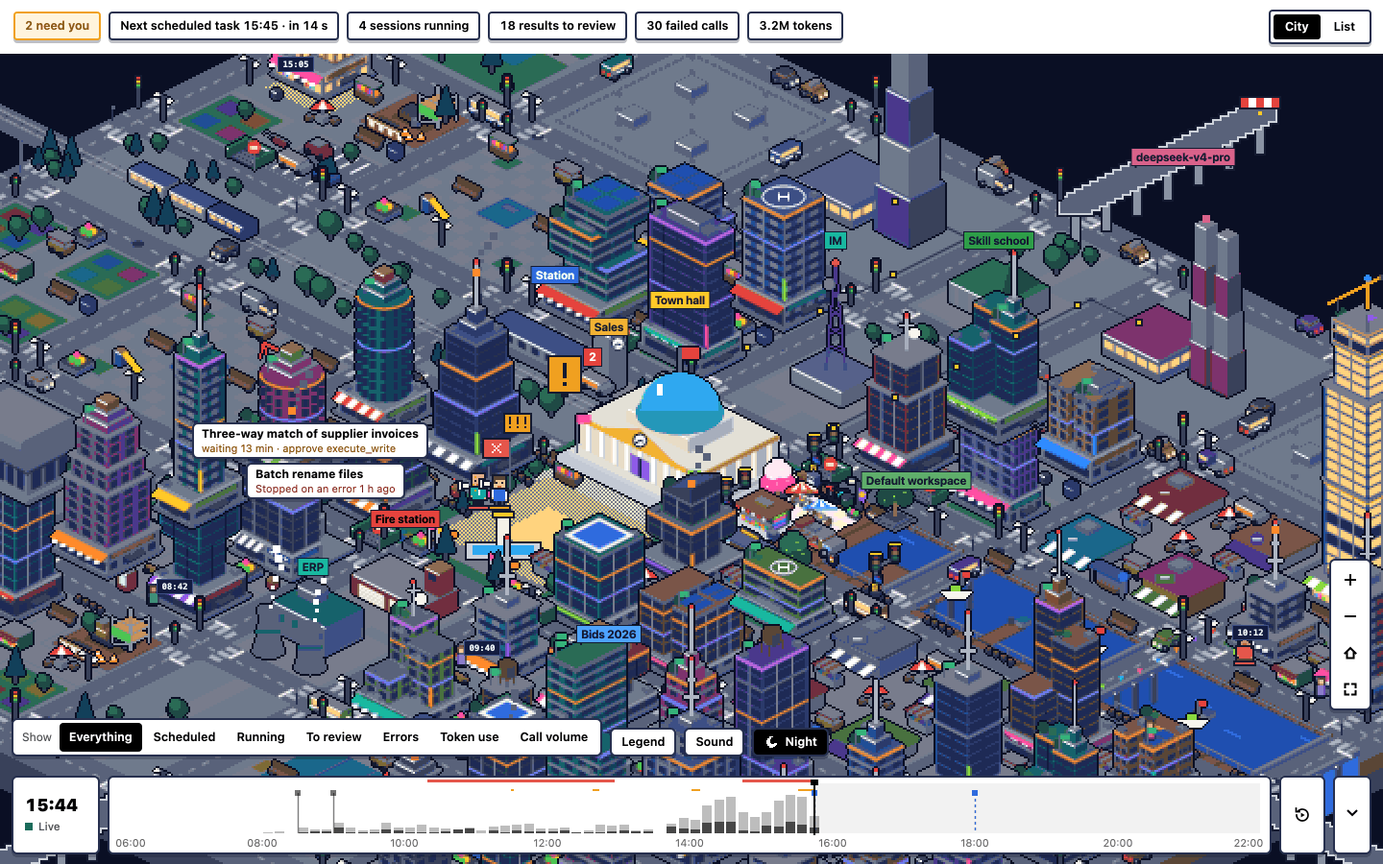
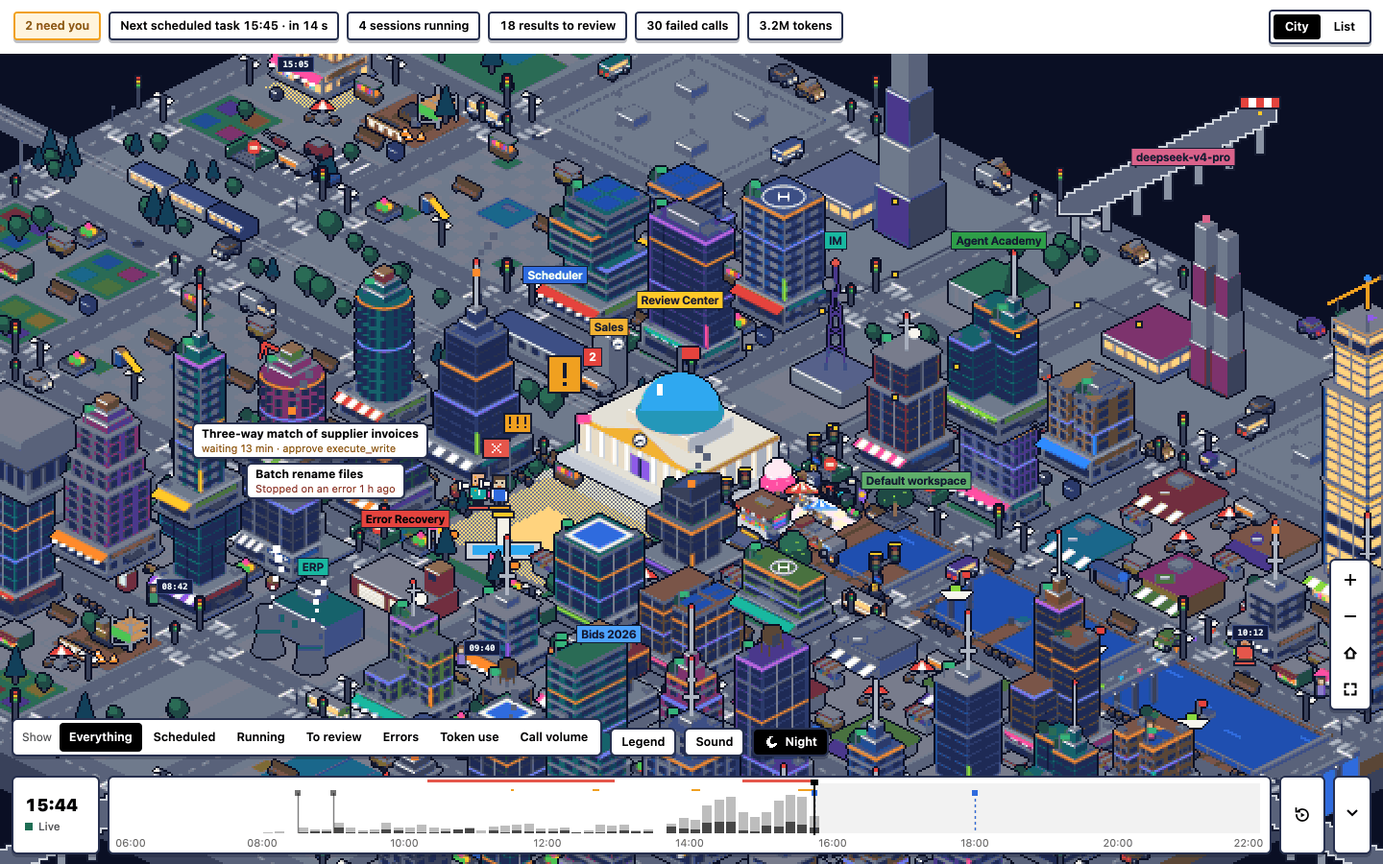
Rename the civic places to AI names (#5)
The places members see now carry AI names in both languages; internal ids
(town, station, fire, school, library, model:, conn:) are unchanged.

- Town hall / square -> Review Center / Review Square (审核中心 / 审核广场)
- Station -> Scheduler (定时任务站)
- Fire station -> Error Recovery (故障修复站)
- Power plant -> Model Hub (模型站)
- Library -> Skills & Plugins (技能与插件库)
- Skill school -> Agent Academy (智能体学院)
- Connector -> MCP Gateway (MCP 网关)
- Plugin street -> Plugin Row (插件街)
- Public buildings -> AI facilities (AI 设施); City gate floor -> Web access (联网出口)

Signs, cards, list headings, legend, tour, overlays, screen-reader text,
READMEs and the user guide follow. City goldens and the README
screenshots are regenerated (English, scripts/readme-shots.mjs).

Claude-Session: https://claude.ai/code/session_01DikYeVxEWu7E3JWwz3Wvbj

diff --git a/plugin/src/locales/en.ts b/plugin/src/locales/en.ts
@@ -4,14 +4,14 @@ import type { zh } from './zh.ts';
 export const en: Record<keyof typeof zh, string> = {
   title: 'DSH Universe',
   'list.label': 'List',
-  'h.rw': "{r} {r:agent is|agents are} working, {w} waiting for you in the square.",
+  'h.rw': "{r} {r:agent is|agents are} working, {w} waiting for you in Review Square.",
   'h.r': "{r} {r:agent is|agents are} working, none waiting for you.",
-  'h.w': "{w} {w:agent is|agents are} waiting for you in the square, the rest are stopped.",
+  'h.w': "{w} {w:agent is|agents are} waiting for you in Review Square, the rest are stopped.",
   'h.none': 'No agent is working right now.',
   'h.loading': 'Reading sessions…',
   'h.empty': 'Nothing has been built in town yet today.',
   'h.error': 'The session list cannot be read.',
-  'e.empty': 'Start a session and the first building breaks ground. The town hall, power plant, skill school, fire station, library and station are already here.',
+  'e.empty': 'Start a session and the first building breaks ground. The Review Center, Model Hub, Agent Academy, Error Recovery, Skills & Plugins and Scheduler are already here.',
   'e.error': "DSH did not answer. This shows what was last read; numbers are hidden for now.",
   'e.retry': 'Read again',
   'e.partial': 'Earlier records of today could not all be read; counting starts when the plugin started.',
@@ -25,15 +25,15 @@ export const en: Record<keyof typeof zh, string> = {
   'td.err': "{n} failed {n:call|calls}",
   'td.tok': '{n} tokens',
   'a.in': 'in {d}',
-  'li.need': 'Waiting for you in the square',
+  'li.need': 'Waiting for you in Review Square',
   'li.review': 'Finished and not seen yet, or with an unsent draft',
   'li.running': "Running",
   'li.auto': 'Scheduled tasks',
   'li.failed': "Stopped on an error",
   'li.idle': "Idle",
   'li.done': 'Finished today',
-  'li.places': 'Public buildings',
-  'li.plugins': "Plugin street",
+  'li.places': 'AI facilities',
+  'li.plugins': "Plugin Row",
   'li.days': 'Earlier days (last 14)',
   'li.dayUnknown': 'No record (the plugin was not running that day)',
   'li.dayRow': "{n} {n:session|sessions}, {f} failed",
@@ -73,7 +73,7 @@ export const en: Record<keyof typeof zh, string> = {
   'fl.done': 'Finished',
   'fl.failed': 'Error',
   'fl.platform': 'Platform',
-  'fl.gate': 'City gate',
+  'fl.gate': 'Web access',
   'fl.approval': 'Approvals desk',
   'fl.question': 'Enquiries',
   'fl.plan': 'Plan to approve',
@@ -85,13 +85,13 @@ export const en: Record<keyof typeof zh, string> = {
   'fl.control': 'Control room',
   'fl.bay': 'Engine bay',
   'fl.retry': 'Repair log',
-  'pl.town': 'Town hall',
-  'pl.station': 'Station',
-  'pl.school': 'Skill school',
-  'pl.library': 'Library',
-  'pl.fire': 'Fire station',
-  'pl.power': 'Power plant {n}',
-  'pl.conn': 'Connector {n}',
+  'pl.town': 'Review Center',
+  'pl.station': 'Scheduler',
+  'pl.school': 'Agent Academy',
+  'pl.library': 'Skills & Plugins',
+  'pl.fire': 'Error Recovery',
+  'pl.power': 'Model Hub {n}',
+  'pl.conn': 'MCP Gateway {n}',
   'pl.home': 'Own building',
   'pl.in': '{n} inside',
   'na': 'Not provided',
@@ -105,7 +105,7 @@ export const en: Record<keyof typeof zh, string> = {
   'view.label': "View",
   'view.city': "City",
   'view.list': "List",
-  'city.aria': "City view: a building is a session, a person is an agent. The list view has the same content. Arrow keys pan, + and − zoom, 0 goes back to the square, Enter opens the place in the middle, Esc goes back.",
+  'city.aria': "City view: a building is a session, a person is an agent. The list view has the same content. Arrow keys pan, + and − zoom, 0 goes back to Review Square, Enter opens the place in the middle, Esc goes back.",
   'ly.label': "Show",
   'ly.all': "Everything",
   'ly.scheduled': "Scheduled",
@@ -118,12 +118,12 @@ export const en: Record<keyof typeof zh, string> = {
   'lg.1': "Building = one session, taller with more work",
   'lg.2': "Person = agent; the colour under the feet is the state",
   'lg.3': "A section of a building = one kind of call, with a band in its colour on top",
-  'lg.4': "Holding up a sign in the square = waiting for you",
+  'lg.4': "Holding up a sign in Review Square = waiting for you",
   'lg.5': "Cars = calls in the last 5 minutes (1 car ≈ {n} calls)",
   'lg.6': "At night only places that are working or waiting are lit",
   'zm.in': "Zoom in",
   'zm.out': "Zoom out",
-  'zm.home': "Back to the square",
+  'zm.home': "Back to Review Square",
   'zm.whole': "Whole city",
   'tl.peek': "{n} {n:call|calls} · {f} failed",
   'lg.tl': "Timeline",
@@ -141,11 +141,11 @@ export const en: Record<keyof typeof zh, string> = {
   'nav.next': "Next one waiting for you (n)",
   'card.close': "Close",
   'act.enter': "Go inside",
-  'ov.scheduled': "Sessions that scheduled tasks started today, and the next scheduled task. The station and those buildings stay in colour, roofs edged in blue. The clock over the station points at the next scheduled task; the clock on a building is when it started. The tag is the start time: ✓ done, × failed, … still running.",
+  'ov.scheduled': "Sessions that scheduled tasks started today, and the next scheduled task. The Scheduler and those buildings stay in colour, roofs edged in blue. The clock over the Scheduler points at the next scheduled task; the clock on a building is when it started. The tag is the start time: ✓ done, × failed, … still running.",
   'ov.running': "Sessions working right now. Their buildings stay in colour, roofs edged in blue, with a dotted blue line to their agents that are out. The tag is the current tool and how long this turn has run.",
   'ov.review': "Sessions that finished and you have not looked at, and sessions with an unsent draft. Their buildings stay in colour with an edged roof. On the roof, a parcel means files were delivered, an envelope a draft, a green check finished and not seen. Opening the session or choosing Mark as seen clears it.",
-  'ov.errors': "Where calls failed today. A fire on the roof, bigger for more failures (1–2, 3–5, 6 or more); failures in the last 30 minutes burn, older ones only smoulder. Fire engines drive from the fire station along the roads and spray water. The fire station shows how many model requests were retried today.",
-  'ov.tokens': "How many tokens each building used. A wire runs from the power plant of the model it used most: solid orange means in use in the last 5 minutes, with more and faster lights for more; a building not using any is off the grid. The meter beside a building is today's use, and the top three have a bolt overhead. The bar over a plant is its load; it turns red past 80% of today's peak.",
+  'ov.errors': "Where calls failed today. A fire on the roof, bigger for more failures (1–2, 3–5, 6 or more); failures in the last 30 minutes burn, older ones only smoulder. Fire engines drive from Error Recovery along the roads and spray water. Error Recovery shows how many model requests were retried today.",
+  'ov.tokens': "How many tokens each building used. A wire runs from the Model Hub of the model it used most: solid orange means in use in the last 5 minutes, with more and faster lights for more; a building not using any is off the grid. The meter beside a building is today's use, and the top three have a bolt overhead. The bar over a Model Hub is its load; it turns red past 80% of today's peak.",
   'ov.calls': "How many calls each place had in the last 5 minutes. Roads turn yellow, orange and red (1 or more, 12 or more, 40 or more), one level less every 3 tiles outwards. Cars = calls in the last 5 minutes, 1 car ≈ {n} calls.",
   'ov.retries': "{n} {n:retry|retries} today",
   'ov.calls5': "{n} in 5 min",
@@ -157,7 +157,7 @@ export const en: Record<keyof typeof zh, string> = {
   'tl.replaying': "Replay",
   'tl.back': "Looking back",
   'snd.label': "Sound",
-  'snd.hint': "While someone waits in the square: two low notes every 2.4 seconds, higher the more are waiting. Off by default; silent with reduced motion.",
+  'snd.hint': "While someone waits in Review Square: two low notes every 2.4 seconds, higher the more are waiting. Off by default; silent with reduced motion.",
   'dn.auto': "Auto",
   'dn.day': "Day",
   'dn.night': "Night",
@@ -291,7 +291,7 @@ export const en: Record<keyof typeof zh, string> = {
   'td.schedNa': "Scheduled tasks: not provided",
   'e.backfill': "Reading today's earlier sessions; the city fills in as they arrive.",
   'e.memory': "The plugin's storage isn't available: today's city is kept only until you close it, and buildings are placed again when you reopen it.",
-  'e.noSched': "This host doesn't provide scheduled tasks, so no trains come to the station.",
+  'e.noSched': "This host doesn't provide scheduled tasks, so no trains come to the Scheduler.",
   'e.dismiss': "Got it",
   'e.notes': "Notes",
   'zm.label': "Zoom",
@@ -318,8 +318,8 @@ export const en: Record<keyof typeof zh, string> = {
   'tour.today.x': "These buttons are ordered by urgency: waiting for you, scheduled, running, to review, errors, tokens. A press switches to that layer and goes to the next item.",
   'tour.layers.t': "Show one kind",
   'tour.layers.x': "Pick a layer and the city turns grey, with only that kind in colour. Open the Legend to see how each layer reads.",
-  'tour.square.t': "The square",
-  'tour.square.x': "Agents that need you walk to the square in front of the town hall and hold up a sign, more visible the longer they wait. Click one to follow it, then confirm in the session.",
+  'tour.square.t': "Review Square",
+  'tour.square.x': "Agents that need you walk to Review Square in front of the Review Center and hold up a sign, more visible the longer they wait. Click one to follow it, then confirm in the session.",
   'tour.building.t': "A building is a session",
   'tour.building.x': "Point at a building to see its card; \"Open session\" on the card takes you to the session. Click the building to go inside and see what each floor is doing.",
 };

diff --git a/plugin/src/locales/zh.ts b/plugin/src/locales/zh.ts
@@ -2,14 +2,14 @@
 export const zh = {
   title: 'DSH Universe',
   'list.label': '清单',
-  'h.rw': '现在 {r} 个代理在干活，{w} 个在广场上等你。',
+  'h.rw': '现在 {r} 个代理在干活，{w} 个在审核广场上等你。',
   'h.r': '现在 {r} 个代理在干活，没有等你的。',
-  'h.w': '{w} 个代理在广场上等你，其余都停着。',
+  'h.w': '{w} 个代理在审核广场上等你，其余都停着。',
   'h.none': '此刻没有代理在干活。',
   'h.loading': '正在读取会话…',
   'h.empty': '今天城里还没有动工。',
   'h.error': '读不到会话列表。',
-  'e.empty': '发起一个会话，第一栋楼就会开工。市政厅、电站、技能学校、消防站、图书馆和车站已经在了。',
+  'e.empty': '发起一个会话，第一栋楼就会开工。审核中心、模型站、智能体学院、故障修复站、技能与插件库和定时任务站已经在了。',
   'e.error': "没有收到 DSH 的回应。这里显示的是上一次读到的内容，数字先不显示。",
   'e.retry': '再读一次',
   'e.partial': '今天早些时候的记录没有读全，只从插件开始运行时算起。',
@@ -23,14 +23,14 @@ export const zh = {
   'td.err': '{n} 次出错',
   'td.tok': '{n} token',
   'a.in': '{d}后',
-  'li.need': '在广场上等你',
+  'li.need': '在审核广场上等你',
   'li.review': '做完了还没看过，或有没发出的草稿',
   'li.running': "运行中",
   'li.auto': '定时任务',
   'li.failed': "出错停下",
   'li.idle': "空闲",
   'li.done': "今天完成",
-  'li.places': '公共设施',
+  'li.places': 'AI 设施',
   'li.plugins': '插件街',
   'li.days': '往日（近 14 天）',
   'li.dayUnknown': '没有记录（插件那天没有运行）',
@@ -71,7 +71,7 @@ export const zh = {
   'fl.done': '已完工',
   'fl.failed': '出错',
   'fl.platform': '站台',
-  'fl.gate': '出城口',
+  'fl.gate': '联网出口',
   'fl.approval': '审批窗口',
   'fl.question': '问询处',
   'fl.plan': '待批准的计划',
@@ -83,13 +83,13 @@ export const zh = {
   'fl.control': '控制室',
   'fl.bay': '车库',
   'fl.retry': '抢修记录',
-  'pl.town': '市政厅',
-  'pl.station': '车站',
-  'pl.school': '技能学校',
-  'pl.library': '图书馆',
-  'pl.fire': '消防站',
-  'pl.power': '电站 {n}',
-  'pl.conn': '连接器 {n}',
+  'pl.town': '审核中心',
+  'pl.station': '定时任务站',
+  'pl.school': '智能体学院',
+  'pl.library': '技能与插件库',
+  'pl.fire': '故障修复站',
+  'pl.power': '模型站 {n}',
+  'pl.conn': 'MCP 网关 {n}',
   'pl.home': '自己的楼',
   'pl.in': '{n} 人在内',
   'na': '未提供',
@@ -103,7 +103,7 @@ export const zh = {
   'view.label': "视图",
   'view.city': "城市",
   'view.list': "清单",
-  'city.aria': "城市视图：一栋楼是一个会话，人是代理。清单视图里有同样的内容。方向键平移，加号减号缩放，0 回到广场，回车打开画面中间的地点，Esc 返回。",
+  'city.aria': "城市视图：一栋楼是一个会话，人是代理。清单视图里有同样的内容。方向键平移，加号减号缩放，0 回到审核广场，回车打开画面中间的地点，Esc 返回。",
   'ly.label': "只看",
   'ly.all': "全部",
   'ly.scheduled': "定时任务",
@@ -116,12 +116,12 @@ export const zh = {
   'lg.1': "一栋楼 = 一个会话，越干越高",
   'lg.2': "小人 = 代理，脚下的颜色是状态",
   'lg.3': "楼的一段 = 一类调用，段顶有一条这一类颜色的色带",
-  'lg.4': "广场上举牌的 = 在等你",
+  'lg.4': "审核广场上举牌的 = 在等你",
   'lg.5': "车 = 最近 5 分钟的调用量（1 辆约等于 {n} 次）",
   'lg.6': "夜里只有在干活或等你的地方亮灯",
   'zm.in': "放大",
   'zm.out': "缩小",
-  'zm.home': "回到广场",
+  'zm.home': "回到审核广场",
   'zm.whole': "看全城",
   'tl.peek': "{n} 次调用 · {f} 次失败",
   'lg.tl': "时间轴",
@@ -139,11 +139,11 @@ export const zh = {
   'nav.next': "下一个等你的（n）",
   'card.close': "关闭",
   'act.enter': "进楼看看",
-  'ov.scheduled': "今天由定时任务启动的会话，和下一个定时任务。车站和这些楼保持彩色，屋顶描蓝边；车站上的钟指向下一个定时任务，楼上的钟是它启动的时间；标签写启动时间：✓ 完成、× 出错、… 还在运行。",
+  'ov.scheduled': "今天由定时任务启动的会话，和下一个定时任务。定时任务站和这些楼保持彩色，屋顶描蓝边；定时任务站上的钟指向下一个定时任务，楼上的钟是它启动的时间；标签写启动时间：✓ 完成、× 出错、… 还在运行。",
   'ov.running': "此刻在干活的会话。这些楼保持彩色，屋顶描蓝边；蓝色虚线连到它出门在外的代理；标签是当前工具和这一轮已用的时间。",
   'ov.review': "做完了而你还没看过的会话，和输入框里有没发出草稿的会话。这些楼保持彩色，屋顶描边；楼顶的箱子 = 交付了文件，信封 = 有草稿，绿色的勾 = 做完还没看。打开会话或点「标为已看」后就不再算。",
-  'ov.errors': "今天哪里有调用出错。楼顶着火，出错越多火越大（1–2、3–5、6 次以上）；30 分钟内出过错的还在烧，更早的只冒烟；消防车从消防站沿路开过去灭火。消防站上写着今天模型请求重试了几次。",
-  'ov.tokens': "每栋楼用了多少 token。电线从它用得最多的模型的电站拉过来：橙色实线表示最近 5 分钟在用，用得越多，光点越多越快；没在用的楼不通电。楼边的电表是今天的用量，前三名头上有闪电；电站上方的条是负荷，超过今天高峰的八成变红。",
+  'ov.errors': "今天哪里有调用出错。楼顶着火，出错越多火越大（1–2、3–5、6 次以上）；30 分钟内出过错的还在烧，更早的只冒烟；消防车从故障修复站沿路开过去灭火。故障修复站上写着今天模型请求重试了几次。",
+  'ov.tokens': "每栋楼用了多少 token。电线从它用得最多的模型对应的模型站拉过来：橙色实线表示最近 5 分钟在用，用得越多，光点越多越快；没在用的楼不通电。楼边的电表是今天的用量，前三名头上有闪电；模型站上方的条是负荷，超过今天高峰的八成变红。",
   'ov.calls': "最近 5 分钟每个地点有多少次调用。路面黄、橙、红三档（1 次以上、12 次以上、40 次以上），往外每 3 格降一档。车 = 最近 5 分钟的调用量，1 辆约等于 {n} 次。",
   'ov.retries': "今天重试 {n} 次",
   'ov.calls5': "5 分钟 {n} 次",
@@ -155,7 +155,7 @@ export const zh = {
   'tl.replaying': "回放中",
   'tl.back': "回看",
   'snd.label': "环境音",
-  'snd.hint': "有人在广场上等你时，每 2.4 秒响两声低音，等的人越多音越高。默认关闭；系统开启「减少动态效果」时不响。",
+  'snd.hint': "有人在审核广场上等你时，每 2.4 秒响两声低音，等的人越多音越高。默认关闭；系统开启「减少动态效果」时不响。",
   'dn.auto': "自动",
   'dn.day': "白天",
   'dn.night': "夜晚",
@@ -289,7 +289,7 @@ export const zh = {
   'td.schedNa': "定时任务：未提供",
   'e.backfill': "正在补读今天早些时候的会话，城市会一栋一栋长出来。",
   'e.memory': "插件的存储暂时用不了：今天的城市只保留到这次关闭，重新打开后楼的位置会重新安排。",
-  'e.noSched': "这个宿主没有提供定时任务，车站里不会有列车。",
+  'e.noSched': "这个宿主没有提供定时任务，定时任务站里不会有列车。",
   'e.dismiss': "知道了",
   'e.notes': "提示",
   'zm.label': "缩放",
@@ -316,8 +316,8 @@ export const zh = {
   'tour.today.x': "这一排按钮按急缓排列：等你、定时任务、运行中、待查看、出错、token。点一下会切到对应的图层，并跳到下一项。",
   'tour.layers.t': "只看一类",
   'tour.layers.x': "选一个图层，城市变灰，只有这一类保持彩色。点「图例」看每个图层怎么读。",
-  'tour.square.t': "广场",
-  'tour.square.x': "需要你的代理会走到市政厅前的广场上举牌，等得越久越显眼。点一下就能跟上它，再去会话里确认。",
+  'tour.square.t': "审核广场",
+  'tour.square.x': "需要你的代理会走到审核中心前的审核广场上举牌，等得越久越显眼。点一下就能跟上它，再去会话里确认。",
   'tour.building.t': "一栋楼是一个会话",
   'tour.building.x': "指针移到楼上，会出现这栋楼的卡片，卡片上的「打开会话」直接去那个会话。点一下楼就进去，看各层在做什么。",
 };

diff --git a/plugin/tests/client.test.ts b/plugin/tests/client.test.ts
@@ -171,7 +171,7 @@ test('English counts take the singular at 1 (`{n:one|other}`); Chinese never nee
   const { en, zh } = await import('../src/locales/index.ts');
   assert.equal(fill(en['td.err'], { n: 1 }), '1 failed call');
   assert.equal(fill(en['td.err'], { n: 30 }), '30 failed calls');
-  assert.equal(fill(en['h.rw'], { r: 1, w: 2 }), '1 agent is working, 2 waiting for you in the square.');
+  assert.equal(fill(en['h.rw'], { r: 1, w: 2 }), '1 agent is working, 2 waiting for you in Review Square.');
   for (const v of Object.values(zh)) assert.ok(!/\{\w+:/.test(v), v);
 });
 

diff --git a/docs/USER-GUIDE.en.md b/docs/USER-GUIDE.en.md
@@ -11,22 +11,23 @@ person, and every tool call shows up as traffic, light and work. Open it from **
 | --- | --- |
 | A building | One session. It grows a section for each kind of work it does (reading, editing, running commands, connectors…), with a band in that kind's colour on top. |
 | A person | An agent. The colour under their feet is the state: Running, Needs you, Idle, Done or Failed. Subagents work inside their parent's building. |
-| A sign held up in the square | That agent is waiting for you (an approval, a question, or a plan to read). |
+| A sign held up in Review Square | That agent is waiting for you (an approval, a question, or a plan to read). |
 | Cars on the avenues | Calls made in the last five minutes. |
 | Lit windows at night | Only places that are working or waiting stay lit. An idle city stands still. |
 
-The civic buildings stand round the square: the **town hall** (approvals and plans), the **station** (scheduled
-tasks), the **fire station** (errors), the **skill school** (skills), the **library** (the plugins you installed) and
-one **power plant** per model. Each connector (MCP server) has its own building, and installed plugins line the plugin street. Workspaces are
+The AI facilities stand round Review Square: the **Review Center** (approvals, questions and plans), the **Scheduler**
+(scheduled tasks), **Error Recovery** (errors and retries), the **Agent Academy** (skill loads and experts), **Skills &
+Plugins** (what you installed) and one **Model Hub** per model. Each MCP server has its own **MCP Gateway**, and
+installed plugins line **Plugin Row**. Workspaces are
 districts, each with a sign showing the workspace's name.
 
 Point at a building to see its card: what the session is doing, its calls, token use and time. **Open session**
 on the card takes you to the session in DSH; clicking the building takes you inside. Open **Legend** for a one-page key. The first time you open
 DSH Universe a four-step tour points these out; **Show the tour again** in the legend repeats it.
 
-## The square and the data views
+## Review Square and the data views
 
-The square in front of the town hall is where agents wait for you. The first button of the Today row along the top shows how many
+Review Square in front of the Review Center is where agents wait for you. The first button of the Today row along the top shows how many
 things need you, and the `n` key jumps to the next one. The row is ordered by urgency: waiting for you, scheduled,
 running, to review, errors, tokens; a press switches to that layer and goes to the next item.
 
@@ -63,8 +64,8 @@ city** or `Esc` to leave.
 
 ![Inside a building](img/guide-inside.png)
 
-The civic buildings can be entered too: the library shows your plugins, the skill school your skills, the station
-the day's scheduled tasks.
+The AI facilities can be entered too: Skills & Plugins shows what you installed, the Agent Academy your skills and
+experts, the Scheduler the day's scheduled tasks.
 
 ## What it reads, and what it never reads
 
@@ -88,5 +89,5 @@ each have their own city, and the same session may stand on a different plot in 
 ## Accessibility
 
 Everything in the city is also in the list view. In the city, the arrow keys pan, `+` and `−` zoom, `0` returns to
-the square, `Enter` opens the place in the middle and `Esc` goes back. With reduced motion turned on in your system,
+Review Square, `Enter` opens the place in the middle and `Esc` goes back. With reduced motion turned on in your system,
 the city updates at most twice a second and nothing flashes.

diff --git a/README.md b/README.md
@@ -21,25 +21,25 @@ All screenshots use a made-up sample day (`fixtures/dsh-sample.ts`). No real ses
 - A **list view** with the same content as text.
 
 **Needs you**
-- Agents waiting for an approval, an answer or a plan to read gather in the town square holding a sign.
+- Agents waiting for an approval, an answer or a plan to read gather in Review Square holding a sign.
 - They stand out more the longer they wait.
 - One click follows the agent; **Open session** takes you to it in DSH.
 
 **Errors**
 - Fire layer: a fire on each building with failed calls, bigger for more failures; recent ones burn, older ones
   smoulder, and fire engines drive out to them.
-- The fire station counts today's retried model requests and keeps a repair log.
+- Error Recovery counts today's retried model requests and keeps a repair log.
 
 **Token and model use**
-- Power-grid layer: one power plant per model with its load, and a wire to each building from the model it used most.
+- Power-grid layer: one Model Hub per model with its load, and a wire to each building from the model it used most.
 - A meter beside each building shows its token use today; the top three get a bolt overhead.
 
 **Call volume**
 - Traffic layer: roads turn yellow, orange and red with the calls of the last 5 minutes, and cars stand for calls.
 
 **Schedules**
-- Scheduled runs arrive as trains at the station.
-- A clock over the station points at the next scheduled task; each building's clock shows when it started.
+- Scheduled runs arrive as trains at the Scheduler.
+- A clock over the Scheduler points at the next scheduled task; each building's clock shows when it started.
 
 **To review**
 - Sessions that finished and you have not looked at, sessions with an unsent draft, and delivered files are marked on
@@ -79,8 +79,8 @@ All screenshots use a made-up sample day (`fixtures/dsh-sample.ts`). No real ses
 | --- | --- |
 | ![The city at night: only places with work in progress are lit](docs/screenshots/city-night.png) | ![The Errors view: failed calls in colour, everything else greyed out](docs/screenshots/layer-errors.png) |
 | **Night.** Only the places with a session in progress are lit. | **Errors.** One kind of data at a time; the rest of the city is greyed out. Token use and call volume work the same way. |
-| ![Agents waiting for you in the square](docs/screenshots/square.png) | ![The timeline replaying the day](docs/screenshots/replay.png) |
-| **The square.** Agents that need you (an approval, a question, a plan to read) wait in the city square with a sign. | **Timeline.** Drag back to any moment of the day, or replay it. |
+| ![Agents waiting for you in Review Square](docs/screenshots/square.png) | ![The timeline replaying the day](docs/screenshots/replay.png) |
+| **Review Square.** Agents that need you (an approval, a question, a plan to read) wait in Review Square with a sign. | **Timeline.** Drag back to any moment of the day, or replay it. |
 | ![Inside a building: the market desk floor](docs/screenshots/room-market.png) | ![Inside a building: the help desk floor](docs/screenshots/room-helpdesk.png) |
 | **Inside a building.** One floor for each kind of work, with the agents standing where they work. | Each kind of floor has its own room, and rooms are laid out like the real thing. |
 | ![The list view](docs/screenshots/list.png) | |

diff --git a/release/npm/README.md b/release/npm/README.md
@@ -11,13 +11,13 @@ is scheduled next. Metadata only, read on your own device.
 
 - **Real-time overview.** Every session and agent across all workspaces, live. The Today bar counts what needs you,
   the next scheduled task, what is running, results to review, failed calls and token use; press one to jump to it.
-- **Needs you.** Agents waiting for an approval, an answer or a plan to read gather in the town square, standing out
+- **Needs you.** Agents waiting for an approval, an answer or a plan to read gather in Review Square, standing out
   more the longer they wait. One click opens the session in DSH.
-- **Errors.** Fires on buildings with failed calls, fire engines on the way, and a fire station that counts retries
+- **Errors.** Fires on buildings with failed calls, fire engines on the way, and Error Recovery, which counts retries
   and keeps a repair log.
-- **Token and model use.** A power grid: one plant per model with its load, and each building's token use today.
+- **Token and model use.** A power grid: one Model Hub per model with its load, and each building's token use today.
 - **Call volume.** Roads and cars show the calls of the last 5 minutes.
-- **Schedules.** Scheduled runs arrive as trains at the station; a clock points at the next one.
+- **Schedules.** Scheduled runs arrive as trains at the Scheduler; a clock points at the next one.
 - **To review.** Finished sessions you have not seen, unsent drafts and delivered files are marked until you open them.
 - **Inside each session.** Each building grows with its work. Go inside to rooms themed by the session title, with
   agents and subagents at their desks posed by the tool they use, and clickable data props: call tape, call log
